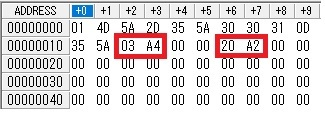
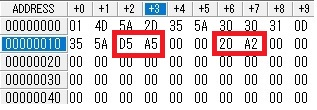
Add files via upload

diff --git a/README.md b/README.md
@@ -323,6 +323,7 @@ NEW NAME:TEST2[CR]
 
 ### MZ-1500用BASIC MZ-5Z001
 
+##### 2024.8.10 LOAD時の特殊コマンド「*FDL」を使えるようにしました。これによりLOADコマンドの使い方が若干変わっています。
 　MZ-5Z001をイメージ化したmztファイルが必要です。
 
 　MZ-5Z001のイメージ化については簡単に書きますので詳細はWebで検索ください。
@@ -331,9 +332,9 @@ NEW NAME:TEST2[CR]
 
 　MZ-5Z001.mztをバイナリエディタで開きます。ファイルの最後はA295hですが、A29Fhまで00hで埋めます。(もしかしたらバージョン違いでA295hではないかもしれませんが、A29Fhまで00hで埋められれば大丈夫だと思います。)
 
-　Z80フォルダ中MZ-5Z001フォルダにある「mz-5z001_BOOT.bin」をMZ-5Z001.mztの後ろ(A2A0h～)に付加します。ファイルサイズ42115Byteになります。
+　Z80フォルダ中MZ-5Z001フォルダにある「mz-5z001_BOOT.bin」をMZ-5Z001.mztの後ろ(A2A0h～)に付加します。ファイルサイズ42581Byteになります。
 
-　MZ-5Z001.mztのヘッダを修正し、ファイルサイズをA403h、実行アドレスをA220hとします。
+　MZ-5Z001.mztのヘッダを修正し、ファイルサイズをA5D5h、実行アドレスをA220hとします。
 
 　![MZ-5Z001](https://github.com/yanataka60/MZ-1500_SD/blob/main/JPEG/MZ-5Z001.jpg)
 
@@ -344,9 +345,9 @@ NEW NAME:TEST2[CR]
 
 　MZ-5Z001.mztをバイナリエディタで開き、A29Fhまで00hで埋めるところまでは同じです。
 
-　Z80フォルダ中MZ-5Z001フォルダにある「mz-5z001_BOOT_AUTORUN.bin」をMZ-5Z001.mztの後ろ(A2A0h～)に付加します。ファイルサイズ42126Byteになります。
+　Z80フォルダ中MZ-5Z001フォルダにある「mz-5z001_BOOT_AUTORUN.bin」をMZ-5Z001.mztの後ろ(A2A0h～)に付加します。ファイルサイズ42592Byteになります。
 
-　MZ-5Z001.mztのヘッダを修正し、ファイルサイズをA40Eh、実行アドレスをA220hとします。
+　MZ-5Z001.mztのヘッダを修正し、ファイルサイズをA5E0h、実行アドレスをA220hとします。
 
 　![MZ-5Z001_AUTORUN](https://github.com/yanataka60/MZ-1500_SD/blob/main/JPEG/MZ-5Z001_AUTORUN.jpg)
 
@@ -392,6 +393,22 @@ NEW NAME:TEST2[CR]
 　LOAD "TEST"     : TEST.MZTというDOSファイル名のファイルがロードされます。
 
 　DOSファイル名が「TEST SBASIC EIGHT.MZT」の場合、LOAD "TEST SBASIC EIGHT"と入力しても「TEST SBASIC EIGH.MZT」というDOSファイルを探しに行くためロードできません。
+
+#### LOAD時の特殊コマンド
+　LOADに続けてファイル名を指定した場合は今まで通り指定したファイル名のプログラムがSDから読み込まれますが、ファイル名を指定せずにLOADだけで実行した場合は、「DOS FILE:」と表示して行入力待ちになります。
+
+　このとき入力できるDOSファイル名は「.MZT」を除いて32文字までとなります。
+
+　ただし半角カタカナ、及び一部の記号はArduinoが認識しないので使えません。パソコンでファイル名を付けるときはアルファベット、数字および空白でファイル名をつけてください。
+
+　またファイル名ではなく以下の特殊コマンドが使用可能となります。
+
+##### *FDL[CR]
+##### *FDL x[CR]
+　MONITORコマンド入力待ちからのFDL、FDL xと全く同等のファイル一覧機能が使えます。
+
+　検索結果の行頭には「DOS FILE:」を付加して表示してあるのでLOADしたいファイルにカーソルキーを合わせて[CR]キーを押すだけでLOADが可能です。
+
 
 ### MZ-700用S-BASIC 1Z-007B
 　Z80フォルダ中SBASIC PATCHフォルダにあるSBASIC_patch1.bin、SBASIC_patch2.binの二つをS-BASICのMZTファイルに当てます。
@@ -614,3 +631,5 @@ https://github.com/yanataka60/MZ80K_SD/tree/main/ROPOKO-TRIAL
 　　　　　　LOADし実行までは問題ないが、別プログラムをLOADしようとすると固まってしまう。短いプログラム同士だと発生しないが、長いプログラムのLOAD実行後に発生するよう。
 
 2024.8.8 BASIC MZ-5Z001のSD対応パッチを更新しました。
+
+2024.8.10 BASIC MZ-5Z001のLOADコマンドで「*FDL」を使えるようにした。
